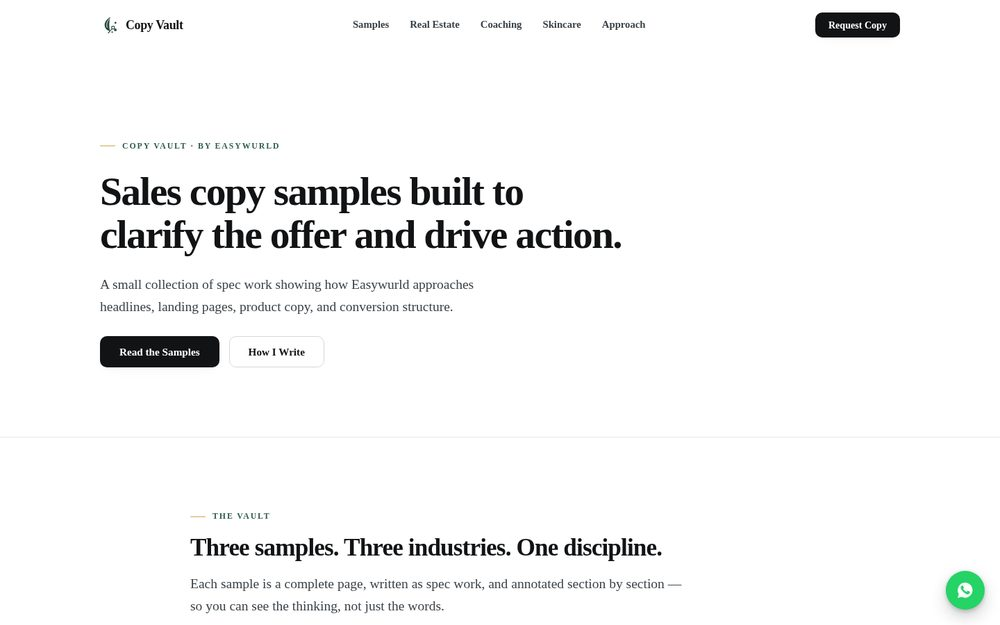
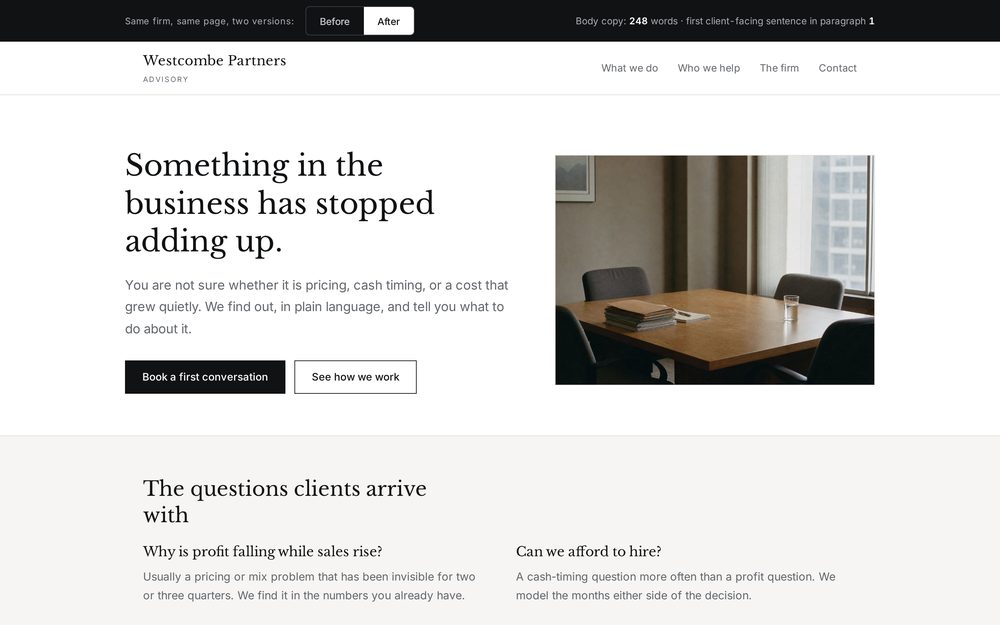
Self-host The Clear Homepage as a landing page with a before/after toggle

diff --git a/client/public/demo/clear-homepage-rewrite/index.html b/client/public/demo/clear-homepage-rewrite/index.html
@@ -1,0 +1,278 @@
+<!doctype html>
+<html lang="en">
+<head>
+<meta charset="utf-8">
+<meta name="viewport" content="width=device-width,initial-scale=1">
+<title>The Clear Homepage — a professional services page, before and after</title>
+<meta name="description" content="The same advisory firm homepage written two ways. Toggle between the original 412 words and the 248-word rewrite and watch where the visitor's question moves. Sample by Easywurld.">
+<meta property="og:title" content="The Clear Homepage"><meta property="og:type" content="website">
+<link rel="preconnect" href="https://fonts.googleapis.com"><link rel="preconnect" href="https://fonts.gstatic.com" crossorigin>
+<link href="https://fonts.googleapis.com/css2?family=Libre+Baskerville:wght@400;700&family=Inter:wght@400;500;600&display=swap" rel="stylesheet">
+<style>
+:root{--pap:#FFFFFF;--off:#F6F5F3;--ink:#111214;--mu:#63676C;--cl:#9E3F1B;--line:#E3E1DD}
+*{box-sizing:border-box}
+html{scroll-behavior:smooth}
+body{margin:0;background:var(--pap);color:var(--ink);font:400 17px/1.7 'Inter',system-ui,sans-serif;-webkit-font-smoothing:antialiased}
+img{display:block;max-width:100%}
+a{color:inherit}
+h1,h2,h3{font-family:'Libre Baskerville',Georgia,serif;font-weight:400;line-height:1.3;margin:0}
+:where(a,button,input,select,summary,[tabindex]):focus-visible{outline:2px solid var(--cl);outline-offset:3px}
+.skip{position:absolute;left:-9999px;background:var(--ink);color:#fff;padding:12px 18px;z-index:300}
+.skip:focus{left:8px;top:8px}
+.wrap{max-width:1080px;margin:0 auto;padding:0 26px}
+.narrow{max-width:680px}
+
+/* toggle bar */
+.bar{position:sticky;top:0;z-index:90;background:var(--ink);color:#fff}
+.bi{display:flex;align-items:center;gap:16px;min-height:58px;flex-wrap:wrap;padding:9px 0}
+.bi .lab{font-size:13px;color:#A9ADB2;letter-spacing:.03em}
+.seg{display:flex;border:1px solid #3A3D42;border-radius:6px;overflow:hidden}
+.seg button{min-height:40px;padding:0 20px;background:transparent;color:#C8CCD1;border:0;font:500 14px 'Inter',sans-serif;cursor:pointer}
+.seg button[aria-pressed="true"]{background:#fff;color:var(--ink)}
+.count{margin-left:auto;font-size:13.5px;color:#A9ADB2;font-variant-numeric:tabular-nums}
+.count b{color:#fff;font-weight:600}
+@media(max-width:700px){.count{margin-left:0;width:100%}}
+
+/* firm header */
+.fh{border-bottom:1px solid var(--line)}
+.fhi{display:flex;align-items:center;gap:20px;min-height:76px}
+.mark{font-family:'Libre Baskerville',serif;font-size:19px;letter-spacing:.02em}
+.mark small{display:block;font-family:'Inter',sans-serif;font-size:10.5px;letter-spacing:.14em;text-transform:uppercase;color:var(--mu);margin-top:2px}
+.fnav{margin-left:auto;display:flex;gap:28px}
+.fnav a{text-decoration:none;font-size:14.5px;color:var(--mu);padding:10px 0}
+.fnav a:hover{color:var(--ink)}
+.menub{display:none;margin-left:auto;min-height:44px;padding:0 14px;border:1px solid var(--line);background:#fff;border-radius:6px;font:500 14px 'Inter',sans-serif}
+@media(max-width:820px){
+  .fnav{display:none;position:absolute;top:76px;left:0;right:0;background:#fff;border-bottom:1px solid var(--line);flex-direction:column;gap:0;padding:6px 26px 14px;z-index:80}
+  .fnav.open{display:flex}
+  .fnav a{padding:13px 0;border-bottom:1px solid var(--line)}
+  .menub{display:block}
+}
+
+/* hero */
+.hero{padding:74px 0 60px;display:grid;grid-template-columns:1.1fr .9fr;gap:56px;align-items:center}
+@media(max-width:880px){.hero{grid-template-columns:1fr;gap:30px;padding:46px 0 38px}}
+.hero h1{font-size:clamp(28px,3.9vw,42px);max-width:16ch}
+.lede{font-size:18.5px;color:var(--mu);margin:20px 0 0;max-width:46ch}
+.ha{display:flex;gap:13px;flex-wrap:wrap;margin-top:30px}
+.btn{display:inline-flex;align-items:center;min-height:48px;padding:0 24px;text-decoration:none;font-size:15px;font-weight:500;border:1px solid var(--ink)}
+.btn.p{background:var(--ink);color:#fff}
+.btn.s{background:transparent;color:var(--ink)}
+.himg{border:1px solid var(--line)}
+.himg img{width:100%;height:330px;object-fit:cover}
+@media(max-width:880px){.himg img{height:220px}}
+
+section{padding:58px 0}
+.alt{background:var(--off);border-top:1px solid var(--line);border-bottom:1px solid var(--line)}
+h2.sh{font-size:clamp(23px,2.8vw,29px);max-width:22ch;margin-bottom:22px}
+.body p{margin:0 0 18px;max-width:68ch}
+.body p:last-child{margin:0}
+
+/* questions list */
+.qs{display:grid;grid-template-columns:1fr 1fr;gap:34px 46px;margin-top:8px}
+@media(max-width:820px){.qs{grid-template-columns:1fr;gap:26px}}
+.q h3{font-size:19px;margin-bottom:9px}
+.q p{margin:0;color:var(--mu);font-size:16px}
+
+/* credentials */
+.creds{display:flex;flex-wrap:wrap;gap:0;border-top:1px solid var(--line)}
+.cr{flex:1 1 210px;padding:22px 26px 22px 0;border-right:1px solid var(--line)}
+.cr:last-child{border-right:0}
+@media(max-width:820px){.cr{flex:1 1 100%;border-right:0;border-bottom:1px solid var(--line);padding-right:0}}
+.cr b{display:block;font-family:'Libre Baskerville',serif;font-size:25px;font-weight:400;margin-bottom:5px}
+.cr span{font-size:14.5px;color:var(--mu)}
+
+/* annotations */
+.annot{background:var(--ink);color:#DDE0E3;padding:60px 0}
+.annot h2{color:#fff;font-size:clamp(23px,2.8vw,29px);max-width:24ch}
+.annot>.wrap>p{color:#A9ADB2;max-width:62ch;margin:14px 0 30px}
+.notes{display:grid;grid-template-columns:repeat(2,1fr);gap:2px;background:#2A2D31;border:1px solid #2A2D31}
+@media(max-width:820px){.notes{grid-template-columns:1fr}}
+.nt{background:var(--ink);padding:24px 26px}
+.nt h3{font-size:17px;color:#fff;margin-bottom:9px}
+.nt p{margin:0;font-size:15px;color:#A9ADB2}
+.nt .was{display:block;margin-top:12px;padding-top:12px;border-top:1px solid #33373C;font-size:14px;color:#8E9398;font-style:italic}
+.metrics{display:flex;gap:40px;flex-wrap:wrap;margin-top:34px;padding-top:26px;border-top:1px solid #33373C}
+.me b{display:block;font-family:'Libre Baskerville',serif;font-size:30px;color:#fff;font-weight:400}
+.me span{font-size:13.5px;color:#A9ADB2}
+
+.honest{border-left:2px solid var(--cl);padding-left:22px;max-width:66ch;margin-top:34px;color:#A9ADB2;font-size:15px}
+.honest b{color:#fff;font-weight:600}
+
+.cta2{text-align:left;padding:62px 0}
+.cta2 h2{font-size:clamp(24px,3vw,32px);max-width:20ch}
+.cta2 p{color:var(--mu);max-width:48ch;margin:14px 0 26px}
+footer{border-top:1px solid var(--line);padding:30px 0;font-size:14px;color:var(--mu);display:flex;gap:18px;flex-wrap:wrap}
+.note{background:var(--ink);color:#A9ADB2;font-size:13.5px;line-height:1.65;padding:18px 24px;text-align:center}
+.note a{color:#fff}
+[data-sw]{transition:opacity .22s ease}
+[data-sw].out{opacity:0}
+@media(prefers-reduced-motion:reduce){*{animation:none!important;transition:none!important}}
+</style>
+</head>
+<body>
+<a class="skip" href="#main">Skip to content</a>
+
+<div class="bar"><div class="wrap bi">
+  <span class="lab">Same firm, same page, two versions:</span>
+  <div class="seg" role="group" aria-label="Choose copy version">
+    <button id="bBefore" aria-pressed="false">Before</button>
+    <button id="bAfter" aria-pressed="true">After</button>
+  </div>
+  <span class="count">Body copy: <b id="wc">248</b> words · first client-facing sentence in paragraph <b id="pc">1</b></span>
+</div></div>
+
+<header class="fh"><div class="wrap fhi">
+  <div class="mark">Westcombe Partners<small>Advisory</small></div>
+  <button class="menub" id="menub" aria-expanded="false" aria-controls="fnav">Menu</button>
+  <nav class="fnav" id="fnav" aria-label="Main">
+    <a class="ln" href="#work">What we do</a>
+    <a class="ln" href="#who">Who we help</a>
+    <a class="ln" href="#about">The firm</a>
+    <a class="ln" href="#talk">Contact</a>
+  </nav>
+</div></header>
+
+<main id="main">
+
+<div class="wrap hero">
+  <div>
+    <h1 data-sw id="h1">Something in the business has stopped adding up.</h1>
+    <p class="lede" data-sw id="lede">You are not sure whether it is pricing, cash timing, or a cost that grew quietly. We find out, in plain language, and tell you what to do about it.</p>
+    <div class="ha">
+      <a class="btn p" href="#talk" id="cta1">Book a first conversation</a>
+      <a class="btn s" href="#work">See how we work</a>
+    </div>
+  </div>
+  <div class="himg"><img src="/demo/img/firm-office.jpg" alt="A quiet meeting room with a plain oak table, four chairs and a stack of document folders by a tall window." width="1400" height="933"></div>
+</div>
+
+<section class="alt" id="work"><div class="wrap">
+  <h2 class="sh" data-sw id="h2a">The questions clients arrive with</h2>
+  <div class="qs" data-sw id="qs">
+    <div class="q"><h3>Why is profit falling while sales rise?</h3><p>Usually a pricing or mix problem that has been invisible for two or three quarters. We find it in the numbers you already have.</p></div>
+    <div class="q"><h3>Can we afford to hire?</h3><p>A cash-timing question more often than a profit question. We model the months either side of the decision.</p></div>
+    <div class="q"><h3>Is this contract worth renewing?</h3><p>We cost it properly, including the time it takes that nobody is billing for.</p></div>
+    <div class="q"><h3>What is this business actually worth?</h3><p>A valuation you can defend, with the assumptions written down so a buyer can argue with them.</p></div>
+  </div>
+</div></section>
+
+<section id="who"><div class="wrap">
+  <h2 class="sh" data-sw id="h2b">Who we work with</h2>
+  <div class="body narrow" data-sw id="who-body">
+    <p>Owner-managed businesses between roughly ten and ninety staff, usually at the point where the founder can no longer hold the whole picture in their head. Manufacturing, logistics, professional services and food production.</p>
+    <p>We are a poor fit for pre-revenue startups and for anyone looking for a signature on accounts prepared elsewhere.</p>
+  </div>
+  <div class="creds" style="margin-top:34px">
+    <div class="cr"><b>1998</b><span>Founded in Leeds</span></div>
+    <div class="cr"><b>Three</b><span>Partners, all chartered</span></div>
+    <div class="cr"><b>Two offices</b><span>Leeds and Manchester</span></div>
+    <div class="cr"><b>Fixed fees</b><span>Agreed before work starts</span></div>
+  </div>
+</div></section>
+
+<section class="alt" id="about"><div class="wrap">
+  <h2 class="sh" data-sw id="h2c">How a first conversation goes</h2>
+  <div class="body narrow" data-sw id="about-body">
+    <p>Forty-five minutes, no charge, no document required. You describe what is bothering you. We say whether it is something we can help with and roughly what it would take.</p>
+    <p>If it is not our kind of problem we will say so in that call rather than in a proposal three weeks later.</p>
+  </div>
+</div></section>
+
+<section class="cta2" id="talk"><div class="wrap">
+  <h2 data-sw id="h2d">Tell us what has stopped adding up.</h2>
+  <p>No form with eleven fields. A phone number and a sentence is enough to start.</p>
+  <div class="ha">
+    <a class="btn p" href="https://wa.me/2349050690837">Message on WhatsApp</a>
+    <a class="btn s" href="https://website-builder-portfolio.vercel.app/contact">Send an enquiry</a>
+  </div>
+</div></section>
+
+<section class="annot"><div class="wrap">
+  <h2>What changed, and why</h2>
+  <p>Four structural edits. None of them made the page cleverer — they moved the reader's question in front of the firm's history.</p>
+  <div class="notes">
+    <div class="nt"><h3>The headline names a problem, not a firm</h3><p>A visitor arrives mid-worry. The first line should describe the worry, so they know they are in the right place before they decide to keep reading.</p><span class="was">Was: "Westcombe Partners — Chartered Advisers Since 1998"</span></div>
+    <div class="nt"><h3>Section headings became questions</h3><p>Clients do not search for "our service offering". They search for the question they are stuck on. The headings now match the words in their head.</p><span class="was">Was: "Our Services" / "Our Approach" / "Our Values"</span></div>
+    <div class="nt"><h3>Credentials moved below the fold and halved</h3><p>Founding date, office count and qualifications are still there. They now act as reassurance after interest, rather than as a barrier before it.</p><span class="was">Was: 180 words of firm history in the opening two paragraphs</span></div>
+    <div class="nt"><h3>The call to action describes the next event</h3><p>"Book a first conversation" tells the reader what will physically happen. "Get in touch" tells them nothing, so they weigh the risk themselves.</p><span class="was">Was: "Get in touch to discuss your requirements"</span></div>
+  </div>
+  <div class="metrics">
+    <div class="me"><b>412 → 248</b><span>Body words</span></div>
+    <div class="me"><b>¶5 → ¶1</b><span>First client-facing sentence</span></div>
+    <div class="me"><b>3 → 1</b><span>Calls to action above the fold</span></div>
+  </div>
+  <p class="honest"><b>No performance data.</b> This is a sample rewrite produced to demonstrate structure, not a live client page, so there is no A/B test, no conversion change and no enquiry figure to report. The only measurable claims on this page are the three counts above, and each of them is a property of the text itself.</p>
+</div></section>
+
+<div class="wrap"><footer>
+  <span>Westcombe Partners — sample copy. Not a real firm.</span>
+  <span>Leeds · Manchester</span>
+</footer></div>
+</main>
+
+<div class="note"><img src="/brand/mark-light.png" alt="Easywurld" width="16" height="16" style="display:inline-block;height:16px;width:16px;vertical-align:-3px;margin-right:6px">Sample copywriting by <a href="https://website-builder-portfolio.vercel.app/projects/clear-homepage-rewrite">Easywurld</a> — Westcombe Partners is not a real firm and no figures above describe a real business. It demonstrates a homepage rewrite judged on structure: toggle Before and After to read both versions in the same typeface.</div>
+
+<script>
+(function(){
+var BEFORE={
+  h1:'Westcombe Partners — Chartered Advisers Since 1998',
+  lede:'Established in Leeds in 1998, Westcombe Partners is a full-service chartered advisory practice with offices in Leeds and Manchester, serving clients across the North of England with integrity, diligence and a commitment to excellence.',
+  cta1:'Get in touch to discuss your requirements',
+  h2a:'Our Services',
+  h2b:'Our Approach',
+  h2c:'Our Values',
+  h2d:'Get in touch to discuss your requirements.',
+  qs:'<div class="q"><h3>Audit &amp; Assurance</h3><p>A comprehensive range of audit and assurance services delivered to the highest professional standards.</p></div>'+
+     '<div class="q"><h3>Taxation</h3><p>Corporate and personal taxation services tailored to the individual circumstances of each client.</p></div>'+
+     '<div class="q"><h3>Corporate Finance</h3><p>Transaction support, valuations and due diligence across a broad spectrum of sectors.</p></div>'+
+     '<div class="q"><h3>Business Advisory</h3><p>Strategic advice drawing on more than twenty-five years of combined partner experience.</p></div>',
+  whob:'<p>The practice was founded by David Westcombe and Alan Pryce, who had previously spent a combined twenty-two years at national firms before establishing an independent practice built on closer client relationships. The firm opened its Manchester office in 2007 and now employs eighteen staff across both locations.</p>'+
+       '<p>All three partners are chartered accountants and members of their respective professional bodies. The firm is registered to carry on audit work and is regulated for a range of investment business activities.</p>',
+  aboutb:'<p>Our approach is built on four core values: integrity, excellence, partnership and progress. We believe that lasting client relationships are founded on trust, technical rigour and a genuine understanding of each client\u2019s commercial objectives.</p>'+
+         '<p>Every engagement is partner-led. We pride ourselves on being responsive, approachable and commercially minded in everything we do.</p>',
+  wc:412,pc:5
+};
+var AFTER={}, keys=['h1','lede','cta1','h2a','h2b','h2c','h2d'];
+var el={};
+keys.forEach(function(k){el[k]=document.getElementById(k)});
+el.qs=document.getElementById('qs');
+el.whob=document.getElementById('who-body');
+el.aboutb=document.getElementById('about-body');
+keys.forEach(function(k){AFTER[k]=el[k].textContent});
+AFTER.qs=el.qs.innerHTML;
+AFTER.whob=el.whob.innerHTML;
+AFTER.aboutb=el.aboutb.innerHTML;
+AFTER.wc=248;AFTER.pc=1;
+
+var wc=document.getElementById('wc'), pc=document.getElementById('pc');
+var bB=document.getElementById('bBefore'), bA=document.getElementById('bAfter');
+var reduce=matchMedia('(prefers-reduced-motion: reduce)').matches;
+
+function apply(S){
+  keys.forEach(function(k){el[k].textContent=S[k]});
+  el.qs.innerHTML=S.qs;
+  el.whob.innerHTML=S.whob;
+  el.aboutb.innerHTML=S.aboutb;
+  wc.textContent=S.wc;pc.textContent=S.pc;
+}
+function swap(S,isAfter){
+  bA.setAttribute('aria-pressed',String(isAfter));
+  bB.setAttribute('aria-pressed',String(!isAfter));
+  var nodes=document.querySelectorAll('[data-sw]');
+  if(reduce){apply(S);return}
+  nodes.forEach(function(n){n.classList.add('out')});
+  setTimeout(function(){
+    apply(S);
+    nodes.forEach(function(n){n.classList.remove('out')});
+  },210);
+}
+bB.onclick=function(){swap(BEFORE,false)};
+bA.onclick=function(){swap(AFTER,true)};
+
+var mb=document.getElementById('menub'), nl=document.getElementById('fnav');
+mb.onclick=function(){var o=nl.classList.toggle('open');mb.setAttribute('aria-expanded',String(o));mb.textContent=o?'Close':'Menu'};
+nl.addEventListener('click',function(e){if(e.target.classList.contains('ln')){nl.classList.remove('open');mb.setAttribute('aria-expanded','false');mb.textContent='Menu'}});
+})();
+</script>
+</body></html>

diff --git a/client/src/data/copywriting.ts b/client/src/data/copywriting.ts
@@ -4,7 +4,7 @@ export const copywriting: Project[] = [
   {
     slug: "clear-homepage-rewrite",
     shot: "/shots/clear-homepage-rewrite.jpg",
-    liveUrl: "https://easywurld-studio-8u8s-two.vercel.app/copy-vault/",
+    liveUrl: "/demo/clear-homepage-rewrite/index.html",
     title: "The Clear Homepage",
     category: "Copywriting",
     industry: "Professional services",
@@ -32,7 +32,7 @@ export const copywriting: Project[] = [
     tags: ["Homepage", "Structure", "B2B"],
     visual: {
       archetype: "copy", bg: "#FFFFFF", ink: "#111214", accent: "#B4451F", muted: "#6F7378",
-      head: "'Inter Tight', system-ui, sans-serif", body: "'Inter', system-ui, sans-serif", variant: 0,
+      head: "'Libre Baskerville', Georgia, serif", body: "'Inter', system-ui, sans-serif", variant: 0,
       words: ["BEFORE", "AFTER", "412 words", "248 words"],
     },
   },
